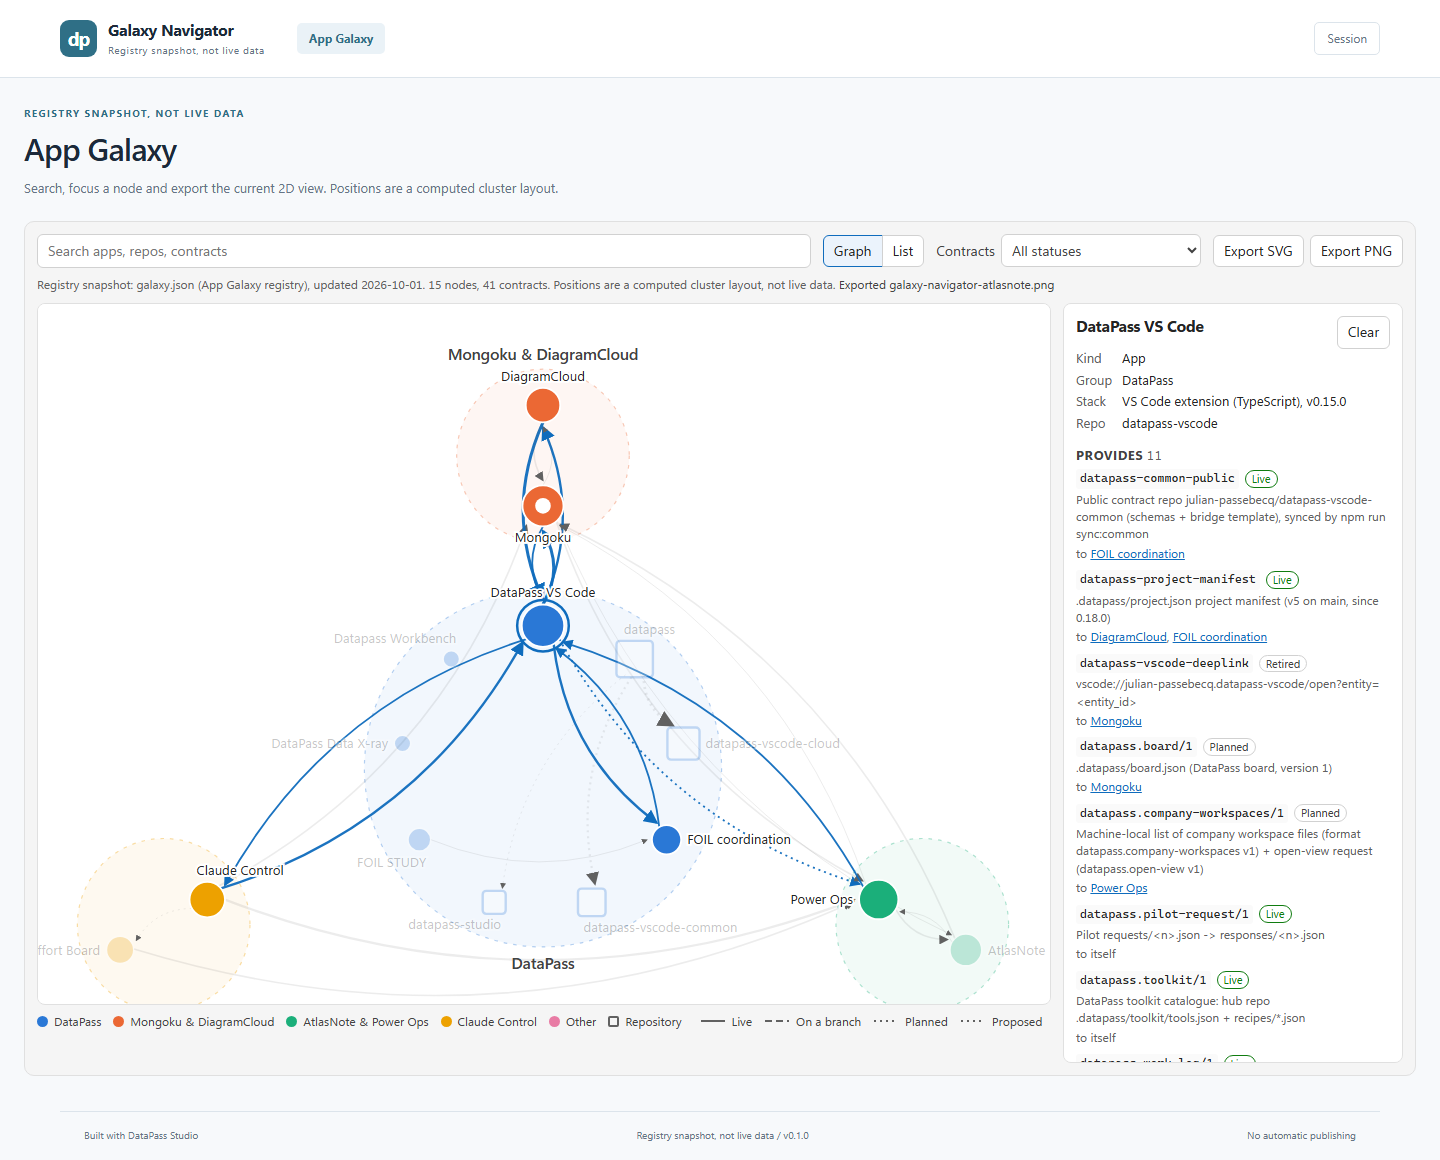
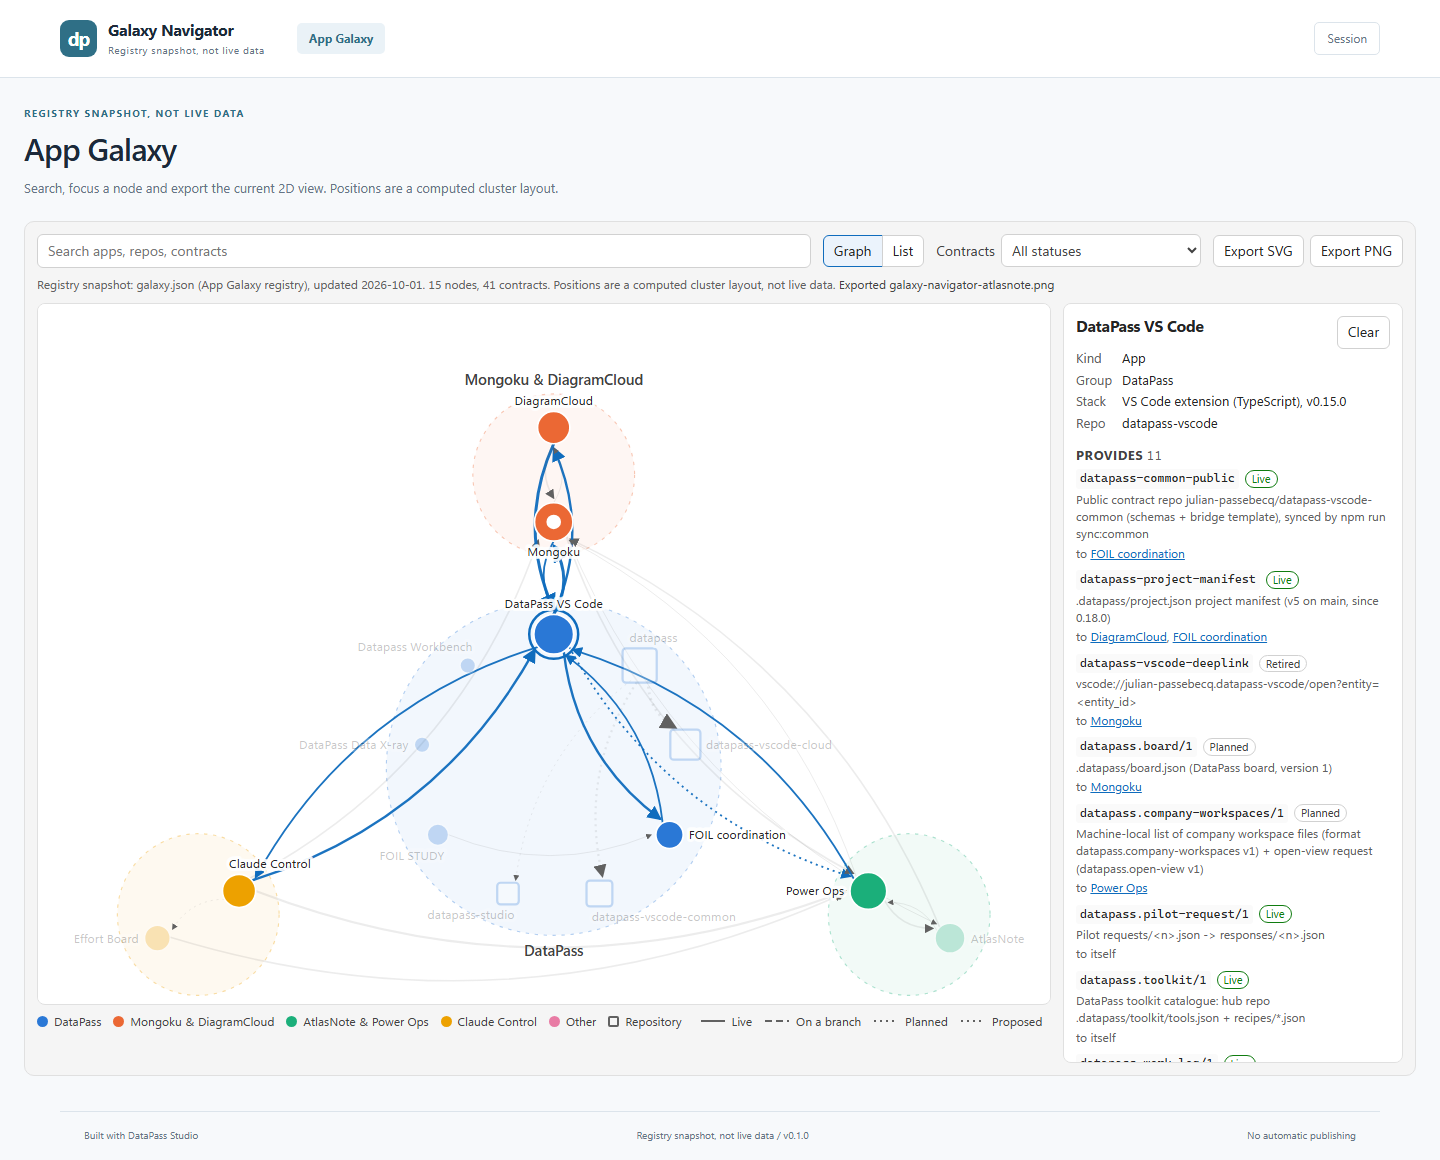
fix(galaxy-navigator): keep every label inside the frame
Focus framing now includes label extents and pulls any partly cut node fully
inside; cluster titles that would be cut are not drawn; node and cluster labels
get a 5-unit surface halo. Smoke asserts every label bbox is inside the SVG
viewport (or wholly outside a focus frame). Recaptured.

diff --git a/clients/galaxy-navigator/registry.ts b/clients/galaxy-navigator/registry.ts
@@ -127,14 +127,42 @@ export function search(registry:Registry,query:string,limit=8):Hit[]{
   return hits.slice(0,limit);
 }
 
-/** Viewport that frames a node and its neighbours (padding in user units), clamped to the canvas aspect. */
-export function focusBox(graph:Graph,ids:readonly string[],pad=70){
+export const shortName=(name:string)=>name.replace(/\s*\(.*\)\s*$/,'');
+/** Label metrics shared by the renderer and the framing (user units; 11px label font). */
+export const LABEL={size:11,charWidth:6.4,halo:5,margin:10};
+type Rect={x0:number;y0:number;x1:number;y1:number};
+/** Estimated extent of a node: its circle plus its label (with halo), in user units. */
+export function nodeExtent(n:Placed):Rect{
+  const l=labelSpot(n),w=shortName(n.name).length*LABEL.charWidth+LABEL.halo,lx=n.x+l.x,ly=n.y+l.y;
+  const x0=l.anchor==='start'?lx:l.anchor==='end'?lx-w:lx-w/2,y0=ly-LABEL.size-2,y1=ly+4;
+  return {x0:Math.min(n.x-n.r,x0),y0:Math.min(n.y-n.r,y0),x1:Math.max(n.x+n.r,x0+w),y1:Math.max(n.y+n.r,y1)};
+}
+/** Estimated extent of a cluster title (13px semibold) and whether it fits wholly inside a viewport. */
+export function clusterLabelFits(c:Graph['clusters'][number],box:{x:number;y:number;w:number;h:number}){
+  const w=c.group.label.length*7.8+LABEL.halo,y=c.labelBelow?c.y+c.r+18:c.y-c.r-8;
+  return c.x-w/2>=box.x&&c.x+w/2<=box.x+box.w&&y-14>=box.y&&y+4<=box.y+box.h;
+}
+/** Viewport that frames a node and its neighbours (circles and labels), clamped to the canvas aspect.
+ * Any other node whose circle or label would be cut by the frame is pulled fully inside, so no label is
+ * ever clipped: a node is either wholly in view or wholly out of it. Wide neighbourhoods use the full canvas. */
+export function focusBox(graph:Graph,ids:readonly string[],pad=40){
+  const full={x:0,y:0,w:graph.width,h:graph.height};
   const pts=ids.map(id=>graph.byId.get(id)).filter((n):n is Placed=>!!n);
-  if(!pts.length)return {x:0,y:0,w:graph.width,h:graph.height};
-  let x0=Math.min(...pts.map(p=>p.x-p.r))-pad,x1=Math.max(...pts.map(p=>p.x+p.r))+pad,y0=Math.min(...pts.map(p=>p.y-p.r))-pad,y1=Math.max(...pts.map(p=>p.y+p.r))+pad;
-  const aspect=graph.width/graph.height;let w=x1-x0,h=y1-y0;
-  if(w/h<aspect){const nw=h*aspect;x0-=(nw-w)/2;w=nw;}else{const nh=w/aspect;y0-=(nh-h)/2;h=nh;}
-  if(w>graph.width*0.85)return {x:0,y:0,w:graph.width,h:graph.height};
+  if(!pts.length)return full;
+  const ext=pts.map(nodeExtent);
+  let b:Rect={x0:Math.min(...ext.map(e=>e.x0))-pad,y0:Math.min(...ext.map(e=>e.y0))-pad,x1:Math.max(...ext.map(e=>e.x1))+pad,y1:Math.max(...ext.map(e=>e.y1))+pad};
+  const aspect=graph.width/graph.height;
+  const fit=(r:Rect):Rect=>{let w=r.x1-r.x0,h=r.y1-r.y0;const o={...r};if(w/h<aspect){const nw=h*aspect;o.x0-=(nw-w)/2;o.x1=o.x0+nw;}else{const nh=w/aspect;o.y0-=(nh-h)/2;o.y1=o.y0+nh;}return o;};
+  b=fit(b);
+  for(let pass=0;pass<6;pass++){
+    let grown=false;
+    for(const n of graph.nodes){
+      const e=nodeExtent(n),cuts=e.x1>b.x0&&e.x0<b.x1&&e.y1>b.y0&&e.y0<b.y1,inside=e.x0>=b.x0&&e.x1<=b.x1&&e.y0>=b.y0&&e.y1<=b.y1;
+      if(cuts&&!inside){b=fit({x0:Math.min(b.x0,e.x0-8),y0:Math.min(b.y0,e.y0-8),x1:Math.max(b.x1,e.x1+8),y1:Math.max(b.y1,e.y1+8)});grown=true;}
+    }
+    if(!grown)break;
+  }
+  if(b.x1-b.x0>graph.width*0.85)return full;
   const r=(v:number)=>Math.round(v*10)/10;
-  return {x:r(x0),y:r(y0),w:r(w),h:r(h)};
+  return {x:r(b.x0),y:r(b.y0),w:r(b.x1-b.x0),h:r(b.y1-b.y0)};
 }

diff --git a/clients/galaxy-navigator/GalaxyNavigator.tsx b/clients/galaxy-navigator/GalaxyNavigator.tsx
@@ -8,13 +8,12 @@ import {useRuntime,useSiteState} from '../../src/framework/ui';
 import {VizRoot,Kpi,BarChart,useMotion,cat,v,lerp} from '../../src/framework/viz/index.ts';
 import {FIELDS} from './fields.ts';
 import {REGISTRY} from './registry.generated.ts';
-import {GROUPS,OTHER_GROUP,STATUS_DASH,STATUS_FILTERS,STATUS_LABEL,STATUS_ORDER,contractsOf,curve,labelSpot,focusBox,layout,neighbours,search,type Graph,type Placed,type StatusFilter} from './registry.ts';
+import {GROUPS,OTHER_GROUP,STATUS_DASH,STATUS_FILTERS,STATUS_LABEL,STATUS_ORDER,contractsOf,curve,clusterLabelFits,labelSpot,shortName,LABEL,focusBox,layout,neighbours,search,type Graph,type Placed,type StatusFilter} from './registry.ts';
 import {exportPng,exportSvg} from './export.ts';
 import './galaxy.css';
 
 const GROUP_INDEX=new Map([...GROUPS,OTHER_GROUP].map((g,i)=>[g.id,i]));
 const groupColor=(id:string)=>cat(GROUP_INDEX.get(id)??7);
-const shortName=(name:string)=>name.replace(/\s*\(.*\)\s*$/,'');
 const asView=(x:unknown)=>x==='list'?'list':'graph';
 const asFilter=(x:unknown):StatusFilter=>x==='live'||x==='pending'?x:'all';
 
@@ -107,7 +106,7 @@ function GraphView({graph,focus,matched,contract,onSelect,svgRef}:{graph:Graph;f
     <g className="gn-clusters" aria-hidden="true">
       {graph.clusters.map(c=><g key={c.group.id}>
         <circle cx={c.x} cy={c.y} r={c.r} fill={groupColor(c.group.id)} fillOpacity={0.06} stroke={groupColor(c.group.id)} strokeOpacity={0.35} strokeDasharray="3 5"/>
-        <text x={c.x} y={c.labelBelow?c.y+c.r+18:c.y-c.r-8} textAnchor="middle" className="gn-cluster-label" fill={v('inkSecondary')}>{c.group.label}</text>
+        {clusterLabelFits(c,target)&&<text x={c.x} y={c.labelBelow?c.y+c.r+18:c.y-c.r-8} textAnchor="middle" className="gn-cluster-label" fill={v('inkSecondary')} stroke={v('surface')} strokeWidth={LABEL.halo} strokeLinejoin="round" paintOrder="stroke">{c.group.label}</text>}
       </g>)}
     </g>
     <g className="gn-edges" data-testid="gn-edges">
@@ -134,7 +133,7 @@ function GraphView({graph,focus,matched,contract,onSelect,svgRef}:{graph:Graph;f
             ?<circle r={n.r} fill={groupColor(n.group.id)} stroke={v('surface')} strokeWidth={1.5}/>
             :<rect x={-n.r} y={-n.r} width={n.r*2} height={n.r*2} rx={3} fill={v('surface')} stroke={groupColor(n.group.id)} strokeWidth={2}/>}
           {n.hub&&<circle r={n.r*0.38} fill={v('surface')}/>}
-          <text {...(l=>({x:l.x,y:l.y,textAnchor:l.anchor}))(labelSpot(n))} className="gn-label" fill={v('ink')} stroke={v('surface')} strokeWidth={3} paintOrder="stroke">{shortName(n.name)}</text>
+          <text {...(l=>({x:l.x,y:l.y,textAnchor:l.anchor}))(labelSpot(n))} className="gn-label" fill={v('ink')} stroke={v('surface')} strokeWidth={LABEL.halo} strokeLinejoin="round" strokeOpacity={0.92} paintOrder="stroke">{shortName(n.name)}</text>
         </g>;
       })}
     </g>
